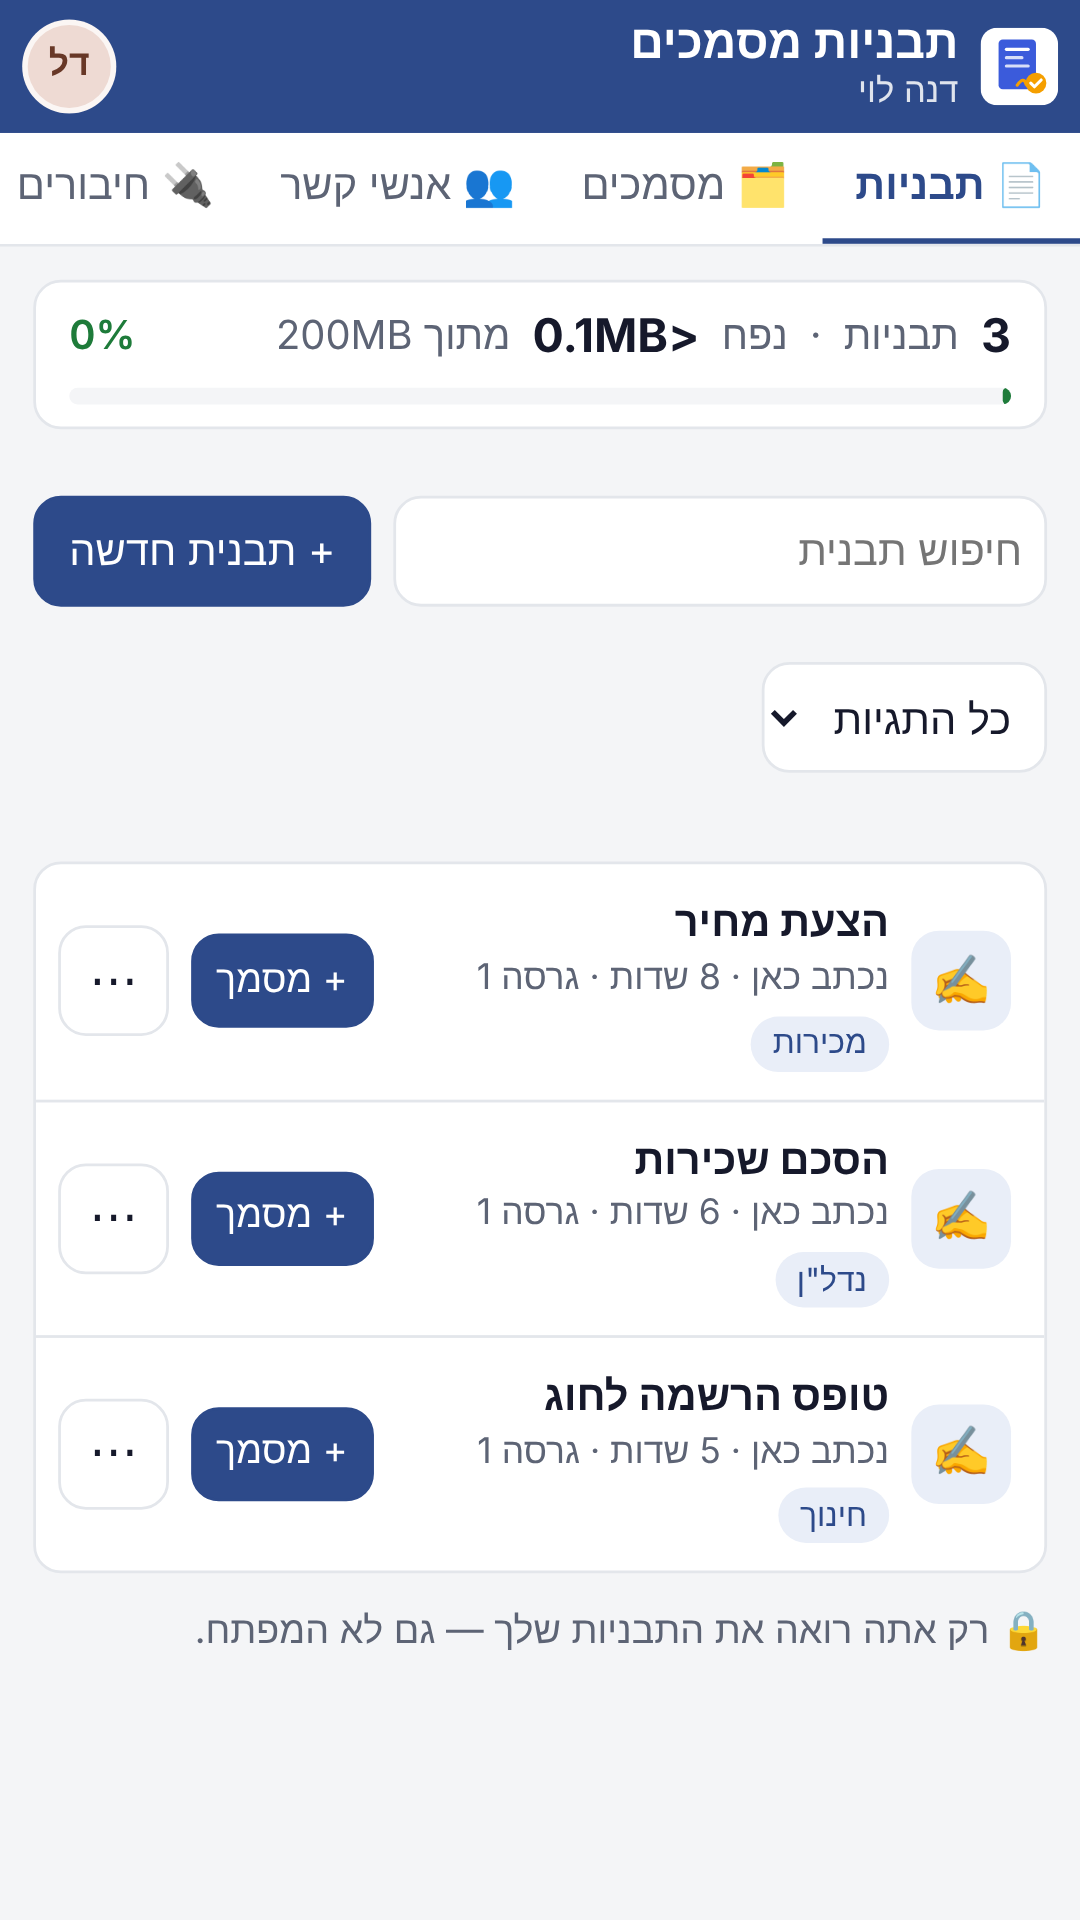
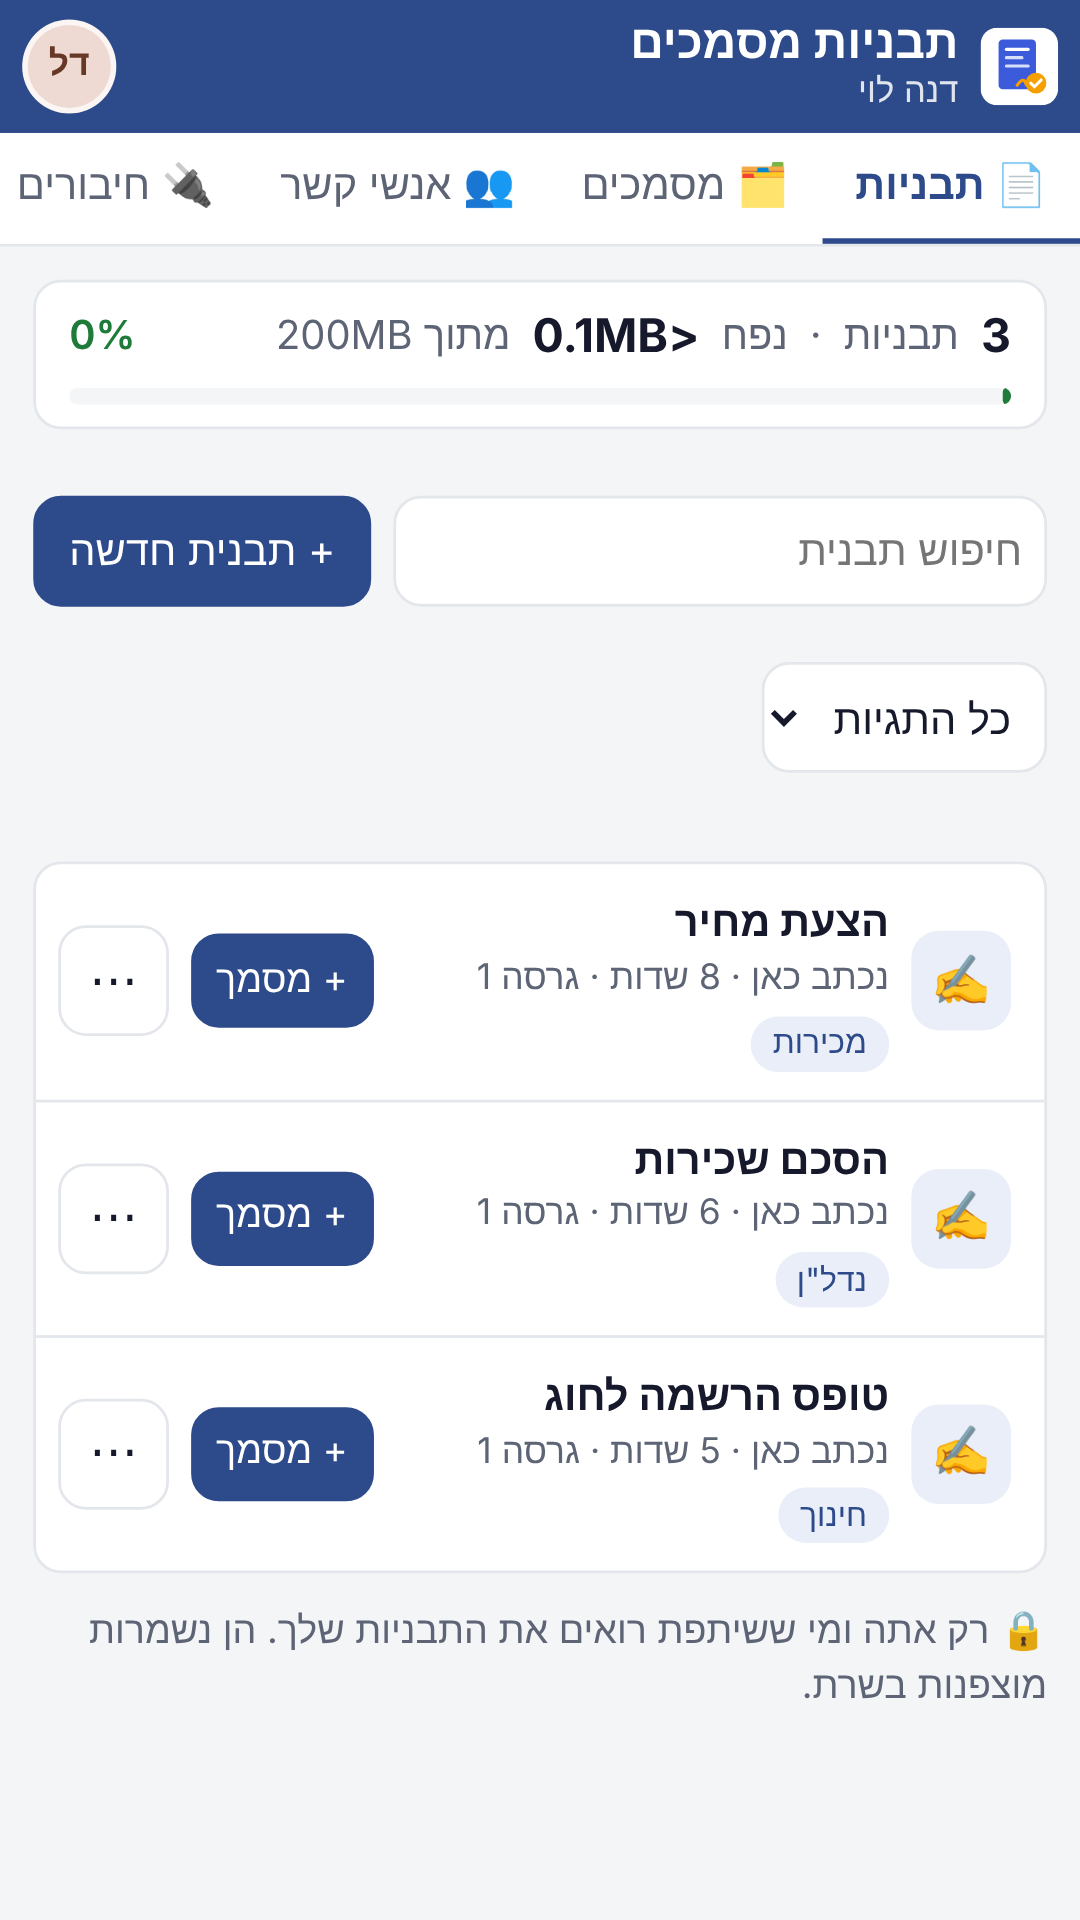
תבניות מסמכים: בלי "גם המפתח לא רואה" — נוסח שתואם את ההצפנה בפועל
אפיון החיבור למעבד התמלילים v0.3, סעיף 16: הצפנה בשרת עם מפתח שיושב בשרת אינה
E2EE, ולכן אסור להבטיח שגם המפתח לא יכול לקרוא.
- המסך הראשי: "רק אתה ומי ששיתפת רואים את התבניות שלך. הן נשמרות מוצפנות בשרת."
- README: חוק הברזל 2 וסעיף 8 — מה בנוי היום (א + ב) ומה מבטיחים
- צילום החנות 1-templates.png צולם מחדש

Claude-Session: https://claude.ai/code/session_01YUG6nZYWMXaykd46tJEETe

diff --git a/document-templates/assets/js/app.js b/document-templates/assets/js/app.js
@@ -723,7 +723,7 @@
       el('div', { class: 'toolbar' }, q,
         el('button', { class: 'primary', onclick: newTemplate }, '+ תבנית חדשה')),
       filters, msg, list,
-      el('p', { class: 'hint' }, '🔒 רק אתה רואה את התבניות שלך — גם לא המפתח.')));
+      el('p', { class: 'hint' }, '🔒 רק אתה ומי ששיתפת רואים את התבניות שלך. הן נשמרות מוצפנות בשרת.')));
     await load();
   }
 

diff --git a/document-templates/README.md b/document-templates/README.md
@@ -26,7 +26,9 @@
    בלי שום תלות בפלטפורמה. לכן: **מערכת משתמשים משלה, מסד נתונים משלה, בלי
    `require` לשום קובץ מחוץ לתיקייה.**
 2. ✅ **פרטיות מוחלטת.** אף אחד לא רואה מסמך או תבנית של אחר, אלא אם שיתפו
-   אותו איתו. **גם לא המפתח.** (מה זה דורש טכנית — סעיף 8.)
+   אותו איתו. אין למפתח מסך, API או יומן שמציגים תוכן, והתוכן מוצפן בשרת — אבל
+   המפתח שמפענח אותו יושב בשרת, ולכן מי ששולט בשרת יכול טכנית לקרוא. לא מבטיחים
+   "גם המפתח לא יכול" (אפיון החיבור למעבד התמלילים v0.3, סעיף 16). (סעיף 8.)
 3. ✅ **אין "מנהל" של התוכן.** לכל אחד חשבון, והוא הבעלים של מה שיצר. מי שיצר
    טופס הוא "מנהל הטופס", ומחליט עם מי לשתף ומה כל אחד יכול לעשות.
 4. ✅ **מה שהשתמשו בו — לא נמחק לעולם.** תבנית שהונפק ממנה מסמך, ומסמך שנשלח או
@@ -255,7 +257,7 @@
 
 ---
 
-## 8. פרטיות: "גם המפתח לא רואה" — מה זה דורש באמת
+## 8. פרטיות: מה המפתח רואה — ומה אפשר להבטיח
 
 זו הבטחה חזקה, וחשוב שהיא תהיה **אמת**, לא רק מסך שלא מציג.
 
@@ -266,6 +268,9 @@
 | **א. מדיניות** | אין שום מסך, API או יומן שמציג תוכן למפתח. היומנים שומרים מטא-דאטה בלבד | הגנה מפני הצצה רגילה | מי שנכנס לשרת עם גישה לקבצים — יכול לקרוא |
 | **ב. הצפנה בשרת** | כל התוכן מוצפן במסד ובקבצים, במפתח שנשמר מחוץ לתיקיית האתר | גיבוי שדלף, או מי שמעיין במסד — לא קורא כלום | מי ששולט בקוד השרת עדיין יכול |
 | **ג. הצפנה מקצה לקצה** | התוכן מוצפן **בדפדפן** במפתח שנגזר מהסיסמה של המשתמש. השרת מחזיק רק תוכן מוצפן | אמת מתמטית: גם המפתח לא יכול | **שכחת סיסמה = המסמכים אבודים** (אלא אם נשמר "מפתח שחזור"); חיפוש בשרת לא אפשרי; ממלא חיצוני ושיתוף דורשים ניהול מפתחות; שליחת מייל ו-PDF מהשרת מסתבכים |
+
+**מה בנוי היום: א + ב.** לכן בממשק ובחנות כתוב "רק אתה ומי ששיתפת רואים, והתוכן
+מוצפן בשרת" — ולא "גם המפתח לא רואה", שהוא נכון רק ב-ג.
 
 **ההמלצה:** לבנות **א + ב** מהיום הראשון, ולתכנן את מבנה הנתונים כך שאפשר
 יהיה לעבור ל-ג בהמשך. ג היא פרויקט בפני עצמו, והיא מתנגשת עם איפוס סיסמה
